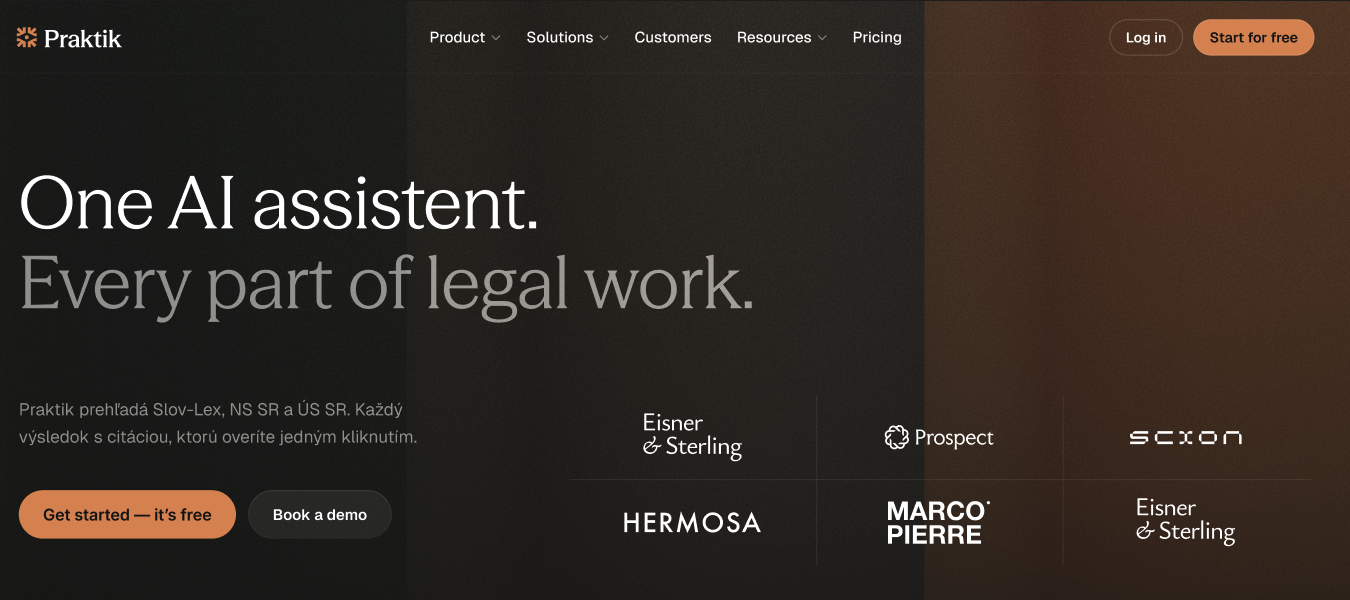
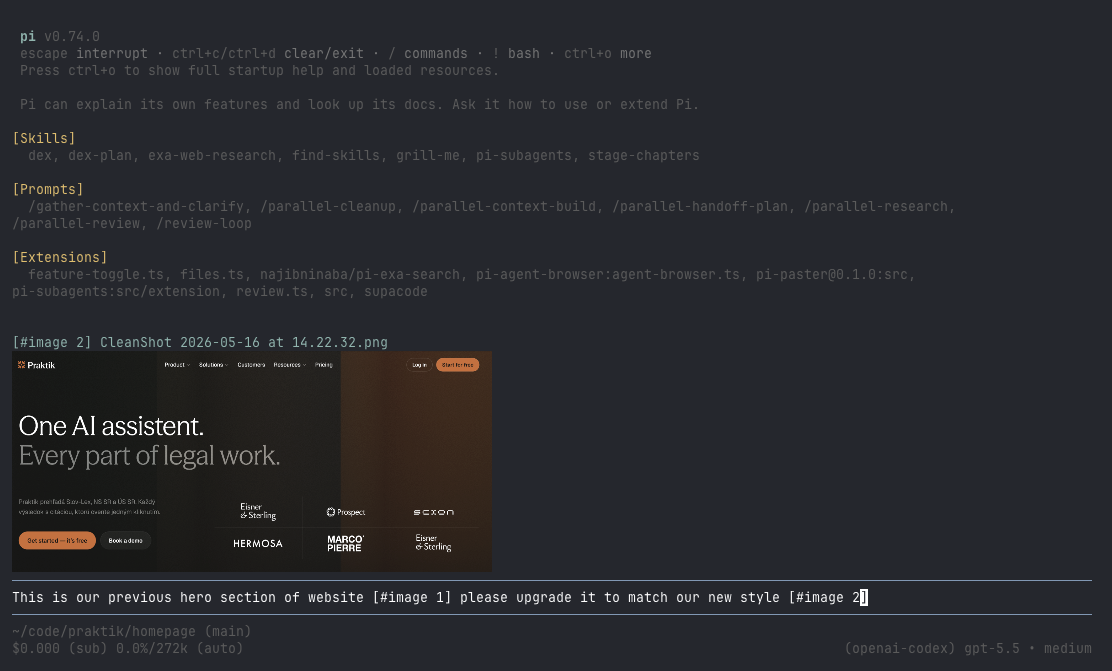
Update preview labels and package image

diff --git a/src/preview.ts b/src/preview.ts
@@ -1,4 +1,3 @@
-import { basename } from "node:path";
 import {
   getCellDimensions,
   Image,
@@ -28,10 +27,9 @@ export class ImagePreviewMessage implements Component {
   render(width: number): string[] {
     const lines: string[] = [];
     for (let index = 0; index < this.attachments.length; index++) {
+      const attachment = this.attachments[index]!;
       lines.push(
-        this.theme.fallbackColor(
-          `Attached ${this.attachments[index]!.placeholder} (${this.attachments[index]!.mimeType})`,
-        ),
+        this.theme.fallbackColor(`Attached ${attachment.placeholder} ${attachment.originalPath}`),
       );
       lines.push(...this.images[index]!.render(width));
     }
@@ -70,7 +68,7 @@ export class CursorImagePreviewWidget implements Component {
   }
 
   private headerLine(width: number): string {
-    const title = `${this.attachment.placeholder} ${basename(this.attachment.originalPath)}`;
+    const title = `Attached ${this.attachment.placeholder} ${this.attachment.originalPath}`;
     return this.theme.title(truncateToWidth(title, Math.max(1, width), ""));
   }
 